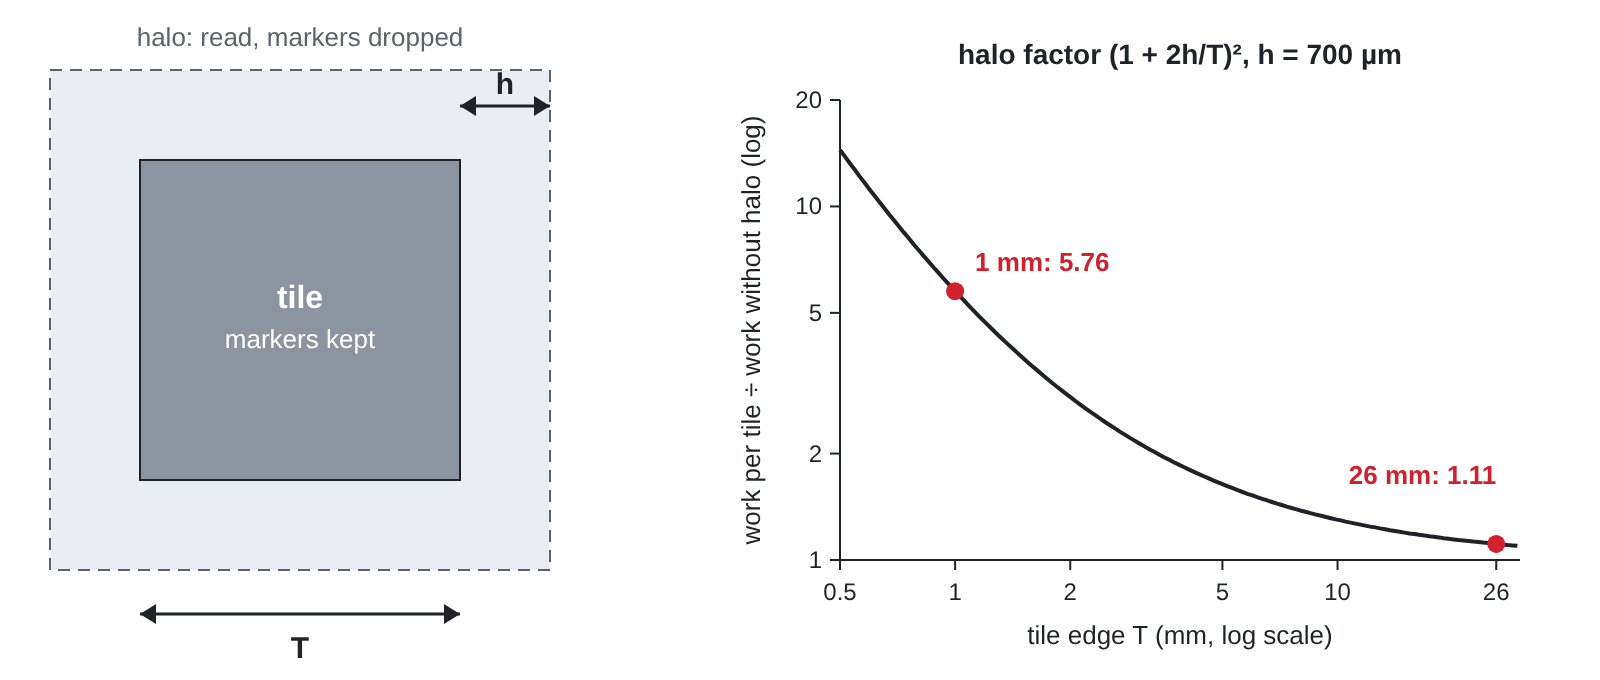
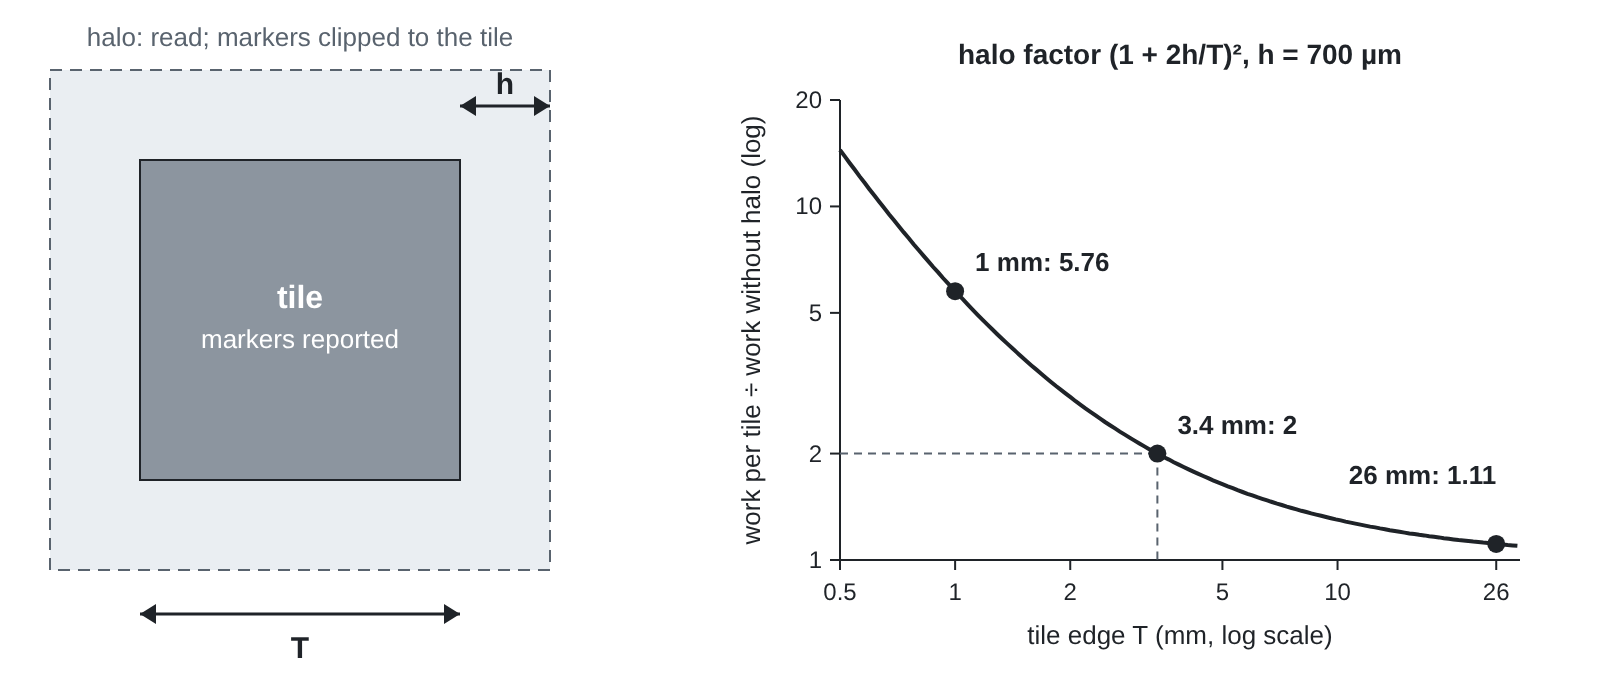
drc-forge: figure fixes after two reviews; skim path back to 1,250
Two reviewers (a first-time reader and a DRC engineer) checked the four
new figures. Fixes: markers are clipped to the tile, not dropped; the
3.4 mm doubling point is marked and the worst-case h stated; test
verdicts name the rule's own marker; the equivalence test converts to
polygons, allows one database unit and covers bounded checks only; the
duplicated-tile control (undetectable after a merge) is removed; W2 now
depends on W5, as Figure 1 shows. Captions and lead-ins trimmed so the
skim path is 1,250 words.

Claude-Session: https://claude.ai/code/session_01Cbdp1sywSFCKEzoDLtSXs4

diff --git a/images/drc-forge/generate.py b/images/drc-forge/generate.py
@@ -28,9 +28,9 @@ def arrow_h(x1, x2, y):
 
 def three_cases():
     # One width rule, three test layouts: one grid step under the limit, at it, one step over.
-    cases = [("limit − 5 nm", 92, "fails: one marker", FAIL),
-             ("limit", 110, "passes: no marker", PASS),
-             ("limit + 5 nm", 128, "passes: no marker", PASS)]
+    cases = [("limit − 5 nm", 92, "fails: one width marker", FAIL),
+             ("limit", 110, "passes: no width marker", PASS),
+             ("limit + 5 nm", 128, "passes: no width marker", PASS)]
     body, x0 = [], 40
     for i, (label, w, verdict, col) in enumerate(cases):
         cx = x0 + 120 + i * 260
@@ -50,12 +50,12 @@ def halo():
     b.append(f'<rect x="{ox - h}" y="{oy - h}" width="{T + 2 * h}" height="{T + 2 * h}" fill="#eaeef2" stroke="{MUTED}" stroke-dasharray="6,4"/>')
     b.append(f'<rect x="{ox}" y="{oy}" width="{T}" height="{T}" fill="{METAL}" stroke="{INK}"/>')
     b.append(text(ox + T / 2, oy + T / 2 - 6, "tile", 16, BG, weight="bold"))
-    b.append(text(ox + T / 2, oy + T / 2 + 14, "markers kept", 13, BG))
+    b.append(text(ox + T / 2, oy + T / 2 + 14, "markers reported", 13, BG))
     b.append(arrow_h(ox, ox + T, oy + T + h + 22))
     b.append(text(ox + T / 2, oy + T + h + 44, "T", 15, weight="bold"))
     b.append(arrow_h(ox + T, ox + T + h, oy - h + 18))
     b.append(text(ox + T + h / 2, oy - h + 12, "h", 15, weight="bold"))
-    b.append(text(ox + T / 2, oy - h - 12, "halo: read, markers dropped", 13, MUTED))
+    b.append(text(ox + T / 2, oy - h - 12, "halo: read; markers clipped to the tile", 13, MUTED))
     # Right: the halo factor (1 + 2h/T)^2 against T, h = 700 um, log axis 0.5 to 30 mm.
     import math
     px, py, pw, ph = 420, 50, 340, 230
@@ -82,10 +82,14 @@ def halo():
         pts.append(f"{X(t):.1f},{Y((1 + 2 * hmm / t) ** 2):.1f}")
         t *= 1.03
     b.append(f'<polyline points="{" ".join(pts)}" fill="none" stroke="{INK}" stroke-width="2"/>')
-    for t, lab in ((1, "1 mm: 5.76"), (26, "26 mm: 1.11")):
+    # the factor reaches 2 at T = 2h / (sqrt(2) - 1)
+    t2 = 2 * hmm / (math.sqrt(2) - 1)
+    b.append(f'<line x1="{px}" y1="{Y(2)}" x2="{X(t2)}" y2="{Y(2)}" stroke="{MUTED}" stroke-dasharray="4,3"/>')
+    b.append(f'<line x1="{X(t2)}" y1="{Y(2)}" x2="{X(t2)}" y2="{py + ph}" stroke="{MUTED}" stroke-dasharray="4,3"/>')
+    for t, lab in ((1, "1 mm: 5.76"), (t2, "3.4 mm: 2"), (26, "26 mm: 1.11")):
         f = (1 + 2 * hmm / t) ** 2
-        b.append(f'<circle cx="{X(t)}" cy="{Y(f)}" r="4.5" fill="{FAIL}"/>')
-        b.append(text(X(t) + (10 if t < 5 else 0), Y(f) - (10 if t < 5 else 30), lab, 13, FAIL, anchor="start" if t < 5 else "end", weight="bold"))
+        b.append(f'<circle cx="{X(t)}" cy="{Y(f)}" r="4.5" fill="{INK}"/>')
+        b.append(text(X(t) + (10 if t < 20 else 0), Y(f) - (10 if t < 20 else 30), lab, 13, INK, anchor="start" if t < 20 else "end", weight="bold"))
     b.append(text(px + pw / 2, py - 18, "halo factor (1 + 2h/T)², h = 700 µm", 14, weight="bold"))
     return svg(800, 340, "".join(b))
 

diff --git a/projects/drc-forge.md b/projects/drc-forge.md
@@ -1,8 +1,8 @@
 # drc-forge: Design rule checking (DRC): fast engine, exhaustive tests, explainable rules
 
-For the open-source [process design kits](../GUIDELINES.md#process-design-kit-pdk) (PDKs) SKY130, GF180MCU and SG13G2, this item builds four artefacts for PDK maintainers and [shuttle](../GUIDELINES.md#shuttle) prechecks: three test layouts per design rule, a sourced reason per rule, a [design-rule check](../GUIDELINES.md#design-rule-check-drc) (DRC) engine that splits a layout across machines, and a per-PDK consistency audit. As of 2026-10 the SKY130 precheck [rule deck](../GUIDELINES.md#rule-deck) names 272 checks and the rule document 593 identifiers; a heuristic map matches 94. One checker run decides each test, so AI agents can write and fix tests in parallel.
+For the open-source [process design kits](../GUIDELINES.md#process-design-kit-pdk) (PDKs) SKY130, GF180MCU and SG13G2, this item builds four artefacts for [shuttle](../GUIDELINES.md#shuttle) prechecks: three test layouts per design rule, a sourced reason per rule, a [design-rule check](../GUIDELINES.md#design-rule-check-drc) (DRC) engine that splits a layout across machines, and a per-PDK consistency audit. The SKY130 precheck [rule deck](../GUIDELINES.md#rule-deck) names 272 checks, its rule document 593 identifiers; a heuristic map matches 94 (2026-10). One checker run decides each test, so AI agents can write and fix tests in parallel.
 
-*Status: draft 4, 2026-10-22. AI review panel: draft 1 reviewed by twelve personas at two model tiers; draft 2 claim-audited at two tiers; figures unreviewed. Human review: none. Questions for Tim: 5. This document was drafted and reviewed with AI agents; the AI review panel is not a human review, and the Human review entry is the only record of one.*
+*Status: draft 4, 2026-10-22. AI review panel: draft 1, twelve personas at two model tiers; draft 2, claim audits at two tiers; figures, two personas. Human review: none. Questions for Tim: 5. This document was drafted and reviewed with AI agents; the AI review panel is not a human review, and the Human review entry is the only record of one.*
 
 ## Goal
 
@@ -23,7 +23,7 @@ flowchart LR
   run["KLayout run"]
   cmp{"Verdict matches<br/>the document?"}
   filed(["Difference filed"])
-  ok(["Rule covered"])
+  ok(["Verdict confirmed"])
   reasons["Reason record"]
   deck --> audit
   doc --> audit
@@ -37,9 +37,9 @@ flowchart LR
   audit --> reasons
 ```
 
-*Figure 1: What feeds the tests, audit and reasons; boxes are inputs or artefacts, the diamond a decision, rounded boxes outcomes; an arrow means "feeds".*
+*Figure 1: What feeds the tests, audit and reasons; boxes are inputs or steps, rounded boxes outcomes; expected verdicts come from the document.*
 
-**Acceptance test.** Six lines, each able to fail; numbers from [M0](#milestones), the baseline.
+**Acceptance test.** Six lines, each able to fail; numbers from [M0](#milestones).
 - *Coverage:* per (PDK, rule deck, variant, switch set), three cases per implemented identifier; counts `Unknown (settled by: M0)`.
 - *Correctness:* each verdict matches the documented value, or the difference is filed with a cause; none unresolved at [M3](#milestones).
 - *Suite quality:* the mutation score (broken rule-deck variants caught) at or above the [M0](#milestones) floor.
@@ -81,7 +81,7 @@ flowchart LR
 - Rule-deck maintainers at chipfoundry, the FOSSi Foundation, IHP-Open-PDK and [open_pdks](https://github.com/RTimothyEdwards/open_pdks).
 - Process and design engineers.
 
-**Why now.** One checker run decides each test, and the rule decks are public.
+**Why now.** Public rule decks; one checker run decides each test.
 Each test is a unit an agent proposes, runs and fixes (as of 2026-10). Rule2DRC's agents wrote correct SkyWater rule-deck scripts in 68.3% of tasks (best-of-20, one open-weight AI model): rule-deck writing, not test writing.
 
 **Shots on goal.** Attempts per month today: `Unknown (settled by: M0 timing)`.
@@ -98,12 +98,12 @@ Each test is a unit an agent proposes, runs and fixes (as of 2026-10). Rule2DRC'
 
 ## What success unlocks
 
-**Needs first.** Nothing blocks the first task; two items feed the speed goal.
+**Needs first.** Nothing blocks the first task; two items feed speed.
 - [shadow-pdks](shadow-pdks.md), open "almost manufacturable" process design kits: an advanced-node rule deck for [W4](#workstreams), the engine.
 - [format-kit](format-kit.md), libraries for design-tool file formats: readers for very large layouts.
 - [shuttle-program](shuttle-program.md), open multi-project wafer programs: pinned benchmark layouts.
 
-**Unlocks on this list.** Tested rule decks for three items, questions for a fourth.
+**Unlocks on this list.** Tested rule decks for three items; questions for a fourth.
 - [shadow-pdks](shadow-pdks.md): its rule decks get tests and reasons from the start.
 - [flow-proofs](flow-proofs.md), toolchain verification: a tested rule deck for its design-rule check stage.
 - [shuttle-program](shuttle-program.md): more than one thread, if [question 4](#unanswered-technical-questions) finds no bug.
@@ -115,7 +115,7 @@ Each test is a unit an agent proposes, runs and fixes (as of 2026-10). Rule2DRC'
 - [flow-proofs](flow-proofs.md): Magic and KLayout verdicts on the same layouts.
 - [shuttle-program](shuttle-program.md): precheck verdicts against the suite's.
 
-**Shared harness.** This item owns the suites and the verdict [harness](../GUIDELINES.md#harness).
+**Shared harness.** This item owns the suites and verdict [harness](../GUIDELINES.md#harness).
 [asic-scoreboard](asic-scoreboard.md) owns benchmarks and runtimes; [shuttle-program](shuttle-program.md) the shuttle corpus.
 
 **Beyond the list.** Teaching material; benchmarks for AI-written rule decks.
@@ -127,7 +127,7 @@ Each test is a unit an agent proposes, runs and fixes (as of 2026-10). Rule2DRC'
 **The closed version.** Two proprietary distributed checkers exist; the prechecks use neither.
 [The resources file](../resources/drc-forge.md) names Siemens Calibre and Cadence Pegasus (as of 2026-10). Both prechecks run open-source checkers.
 
-**The counterfactual.** Closed, the tests stay out of public prechecks; undone, shuttles keep one-thread runs.
+**The counterfactual.** Closed or undone, public prechecks keep untested one-thread runs.
 
 **The strongest case against open.** Foundry insiders could record true reasons privately.
 Tim's [Building a (future) open source PDK](https://docs.google.com/document/d/1Y-RbdGYOzswOI5EkUuCKZnWjdT1K9UbGQc_CbcIQ9O4/edit) says publishing rules is sensitive (Tim's claim, 2022 Q3; checked: Rule2DRC reports earlier benchmarks withheld as proprietary). It fails here: a reason read under a non-disclosure agreement (NDA) cannot be published ([clean-room rule](../GUIDELINES.md#clean-room)), and these rule decks are public.
@@ -181,9 +181,9 @@ The bar is the input floor and the cost model; proprietary results are context o
 - *Agent-scale needs:* short pinned runs, no licence condition; a recorded full-chip time with design size: None found (searched: tt-support-tools, tt-gds-action, wafer-space/gf180mcu-precheck, gf180mcu-project-template, arXiv 2405.04257 and 2406.15107, 2026-10-21).
 - *Proprietary context:* Calibre and Pegasus (as of 2026-10); runtimes and terms `Unknown (settled by: the vendors' public documentation)`.
 
-![A tile inside its halo, and the halo factor falling with tile edge](../images/drc-forge/generated-tile-halo.png)
+![A tile inside its halo; the halo factor falls from 5.76 at 1 mm through 2 at 3.4 mm to 1.11 at 26 mm](../images/drc-forge/generated-tile-halo.png)
 
-*Figure 2: One tile and its halo (dashed: read, not reported), and the halo factor against tile edge on log axes; below 3.4 mm tiles the halo doubles the work. Drawn by [generate.py](../images/drc-forge/generate.py).*
+*Figure 2: A tile, its halo (read, markers clipped) and the halo factor; with h = 700 µm, tiles under 3.4 mm double the work.*
 
 ### Research results
 
@@ -219,7 +219,7 @@ Replacing KLayout's core waits for [W1](#workstreams) and [W2](#workstreams), th
 
 ## What Tim has already worked out
 
-**Documents.** Three of Tim's documents, read in full; public, checked 2026-10-21.
+**Documents.** Three of Tim's public documents, read in full on 2026-10-21.
 - Tim's [Design Rule Check (DRC) Testing](https://docs.google.com/document/d/18z-FBJHni6qt1WR_tF6bbRHfQydKcFMAVnuj4Ixbj90/edit) (last updated 2023 Q1, unfinished): one test per layout file; a pass case flagged is a false positive, a fail case not flagged a false negative (Tim's claim, 2023 Q1; checked: Rule2DRC also scores by running labelled pass and fail layouts).
 - Tim's [Building a (future) open source PDK](https://docs.google.com/document/d/1Y-RbdGYOzswOI5EkUuCKZnWjdT1K9UbGQc_CbcIQ9O4/edit) (last updated 2022 Q3): a rule serves physics, tool limits or business, and has a reason and a check (Tim's claim, 2022 Q3; checked: Wong 2005's abstract calls rules a designer-manufacturing compromise).
 - Tim's [Test and verification for ASIC designs options exploration](https://docs.google.com/document/d/1_StmqBumyTuTNVcvutiX-INbbLG7DHoGl_fe0lvQPZ8/edit) (last updated 2023 Q2): "mostly ignoring DRC" (Tim's claim, 2023 Q2; checked: the sentence read in the document).
@@ -234,7 +234,7 @@ Full optical simulation could remove rules guarding an approximation (Tim's clai
 
 **From unpublished notes.** `Not applicable (this draft uses no unpublished material)`.
 
-**Where the written record runs out.** Seven headings of the testing document are empty.
+**Where the written record runs out.** Seven testing-document headings are empty.
 - Fuzz, torture and performance testing.
 - Tap cells, decap cells, long parallel lines, "SRAM special rules".
 
@@ -253,7 +253,7 @@ Full optical simulation could remove rules guarding an approximation (Tim's clai
 - *Independent labels:* in Rule2DRC ([Kim et al. 2026](https://arxiv.org/abs/2605.15669)), AI-generated test labels were wrong in 15.71% to 37.60% of cases, by AI model; here each label is checked against the document and two checkers.
 - *Capability check (as of 2026-10):* [M1](#milestones), the first checkable result, reports the share of agent labels overturned against a pause rate for [W2](#workstreams), the suites.
 
-**What people still do.** People sign upstream commits and accept contested reasons; agents prepare both. [Unknowns, blockers and risks](#unknowns-blockers-and-risks) itemises the blockers and the [plausible-but-wrong risk](../GUIDELINES.md#plausible-but-wrong-risk).
+**What people still do.** People sign upstream commits and accept contested reasons. [Unknowns, blockers and risks](#unknowns-blockers-and-risks) itemises the blockers and the [plausible-but-wrong risk](../GUIDELINES.md#plausible-but-wrong-risk).
 
 ## Work plan and milestones
 
@@ -296,12 +296,12 @@ A *switch set* is the rule-deck options that turn groups of design-rule check (D
   - Contribution gate: a person authors and signs.
 - Fit: A, because none binds.
 - Lead time: upstream review.
-- Depends on: W1.
+- Depends on: W1, W5.
 - Suite quality: mutation score from M1.
 
-![Three test strips of increasing width, with verdicts](../images/drc-forge/generated-three-test-layouts.png)
+![Three strips: one grid step under the width limit fails, at and over it pass](../images/drc-forge/generated-three-test-layouts.png)
 
-*Figure 3: One width rule's three test layouts, each grey strip one layout file; only the step past the limit may raise a marker.*
+*Figure 3: Three test layouts for one width rule; only the strip below the limit raises its marker.*
 
 **W3 Partition, halo and merge on one host.** Produces: a driver over N KLayout programs on bordered tiles. Needed because: a partition model comes before any cluster.
 - Oracle: the merged markers against a single-host flat run.
@@ -328,7 +328,7 @@ flowchart LR
   split["Tiles with halo h"]
   runs["N KLayout programs"]
   merge["Merge markers"]
-  xor{"Flatten, merge, XOR<br/>per output name"}
+  xor{"Per output name: polygons,<br/>merge, XOR"}
   pass(["Equivalent"])
   fail(["Not equivalent"])
   gds --> flat
@@ -337,11 +337,11 @@ flowchart LR
   runs --> merge
   flat --> xor
   merge --> xor
-  xor -->|empty| pass
+  xor -->|"empty within 1 dbu"| pass
   xor -->|not empty| fail
 ```
 
-*Figure 4: The equivalence test of W3 and W4; boxes are steps, the diamond the comparison, rounded boxes verdicts; the negative controls must fail it.*
+*Figure 4: W3's equivalence test, bounded checks; diamond the comparison, rounded boxes verdicts; a dropped tile fails it.*
 
 **W4 Multi-host engine.** Produces: the driver over a cluster, costed against the model. Needed because: the engine deliverable and the runtime line.
 - Oracle: W3's equivalence test plus the runtime line.
@@ -349,7 +349,7 @@ flowchart LR
   - Reference: the single-host runs.
   - Pass: equivalence; wall-clock within the ceiling; speed-up and halo factor reported.
   - Latency: one cluster run per design.
-  - Negative control: a dropped tile, a duplicated tile, an overlap kept.
+  - Negative control: a dropped tile, an overlap kept.
   - Blind spots: connectivity, antenna, density; multi-patterning.
 - Access: a cluster.
 - Knowledge: public record.
@@ -379,7 +379,7 @@ flowchart LR
 - Lead time: upstream review.
 - Depends on: W1.
 
-**W6 Sourced reason drafts.** Produces: per rule, a mechanism and a value-level entry with citation and quote. Needed because: the reasons deliverable.
+**W6 Sourced reason drafts.** Produces: per rule, a cited, quoted mechanism and value-level entry. Needed because: the reasons deliverable.
 - Oracle: the citation resolves and the quote appears in the source.
   - Stands in for: the question each rule guards.
   - Reference: public papers and PDK documents; later [tcad-twin](tcad-twin.md).
@@ -397,7 +397,7 @@ flowchart LR
 - Lead time: none.
 - Depends on: W5.
 
-**W7 Reason acceptance.** Produces: an accept or reject verdict per entry, reviewer status recorded. Needed because: a resolving citation can still be irrelevant.
+**W7 Reason acceptance.** Produces: an accept or reject verdict per entry, with reviewer status. Needed because: a resolving citation can still be irrelevant.
 - Oracle: a reviewer judges that the source states this reason.
   - Stands in for: the question the rule serves.
   - Reference: W6's quoted sentence.
@@ -482,7 +482,7 @@ Proof levels follow [GUIDELINES.md 4.9.1](../GUIDELINES.md#491-proof-levels).
 - Fit: D.
 - Gate: an independent reviewer re-runs both.
 
-**M4 Proven in hardware or silicon.** `Not applicable (silicon measurement belongs to shuttle-program and tcad-twin)`.
+**M4 Proven in hardware or silicon.** `Not applicable (silicon belongs to shuttle-program and tcad-twin)`.
 
 **Dependencies.** The longest chain to M3 runs W1, W5, W6, M1, M2, M3.
 
@@ -502,6 +502,7 @@ flowchart LR
   W1 --> M0
   W1 --> W5
   W1 --> W2
+  W5 --> W2
   W1 --> W3
   W5 --> W6
   W6 --> W7
@@ -528,7 +529,7 @@ flowchart LR
 
 The counts behind every denominator, by rule deck (as of 2026-10):
 
-| PDK | Rule deck and commit | Output names | Live statements | Raw statements | Method |
+| PDK | Rule deck, commit | Output names | Live statements | Raw statements | Method |
 | --- | --- | --- | --- | --- | --- |
 | SKY130 | chipfoundry `sky130A_mr.drc`, 6c401ed | 272 | 296 | 300 | Three parsers agree |
 | GF180MCU | fossi-foundation `gf180mcu.drc`, a561909 | 533 | 541 | 545 | Two parsers agree |
@@ -614,7 +615,7 @@ Every metric is measured by an [M0](#milestones) script; baselines not shown are
 - Is a driver on [KLayout](https://github.com/KLayout/klayout)'s scripting interface (GPL-3.0) a derived work? Put once to the KLayout maintainer by the signer.
 - Does the SKY130 rule decks' GPLv3 header govern test layouts, and which licence governs open_pdks' `sky130.lydrc` (GPLv3 header, BSD-2-Clause directory)? Put to the maintainers by the signer.
 
-**Clean room.** Values and reasons come from cited public sources; rule text is paraphrased.
+**Clean room.** Values and reasons from cited public sources; rule text paraphrased.
 A contributor of values declares no related non-disclosure agreement (NDA); no NDA-bound reader reviews ([Questions for Tim](#questions-for-tim), question 5). Internal names met in public documents are filed as errors, never copied ([5.7](../GUIDELINES.md#57-clean-room-rule-for-pdk-items)).
 
 ## Unknowns, blockers and risks
@@ -644,7 +645,7 @@ A contributor of values declares no related non-disclosure agreement (NDA); no N
 
 ### Risks of the approach
 
-**The biggest risk.** A test label or reason that reads right and is wrong.
+**The biggest risk.** A test label or reason that is plausible but wrong.
 - **The plausible-but-wrong risk.** AI-generated test labels were wrong in 15.71% to 37.60% of Rule2DRC cases. Check: documented values, two checkers, geometry, quoted citations.
 - **A miscounted denominator.** 300 raw against 296 live; 546 against 593. Check: two methods per count.
 
@@ -679,13 +680,13 @@ A contributor of values declares no related non-disclosure agreement (NDA); no N
 
 ### Agent digest
 
-- Goal: three layouts per implemented identifier matching the document; multi-host equivalent to flat; a reason status per rule.
+- Goal: three layouts per identifier matching the document; multi-host equal to flat; a reason status per rule.
 - First task: the SKY130 mapping table (task 1).
-- Oracle: rule-deck message against document row; a second agent re-reads every non-exact row.
+- Oracle: rule-deck message against document row; non-exact rows re-read.
 - Lands in: this item's repository (name set by Tim), `audit/sky130/mapping.csv`.
 - Ask a person for: a signer; a cluster; reason reviewers.
 - Upstream / downstream: none / [flow-proofs](flow-proofs.md), [shuttle-program](shuttle-program.md), [asic-scoreboard](asic-scoreboard.md), [tcad-twin](tcad-twin.md); later [shadow-pdks](shadow-pdks.md), [format-kit](format-kit.md).
-- Stop rule: 60 minutes per attempt; report counts by method and the stopping point.
+- Stop rule: 60 minutes; report counts and where it stopped.
 
 ### Read first
 
